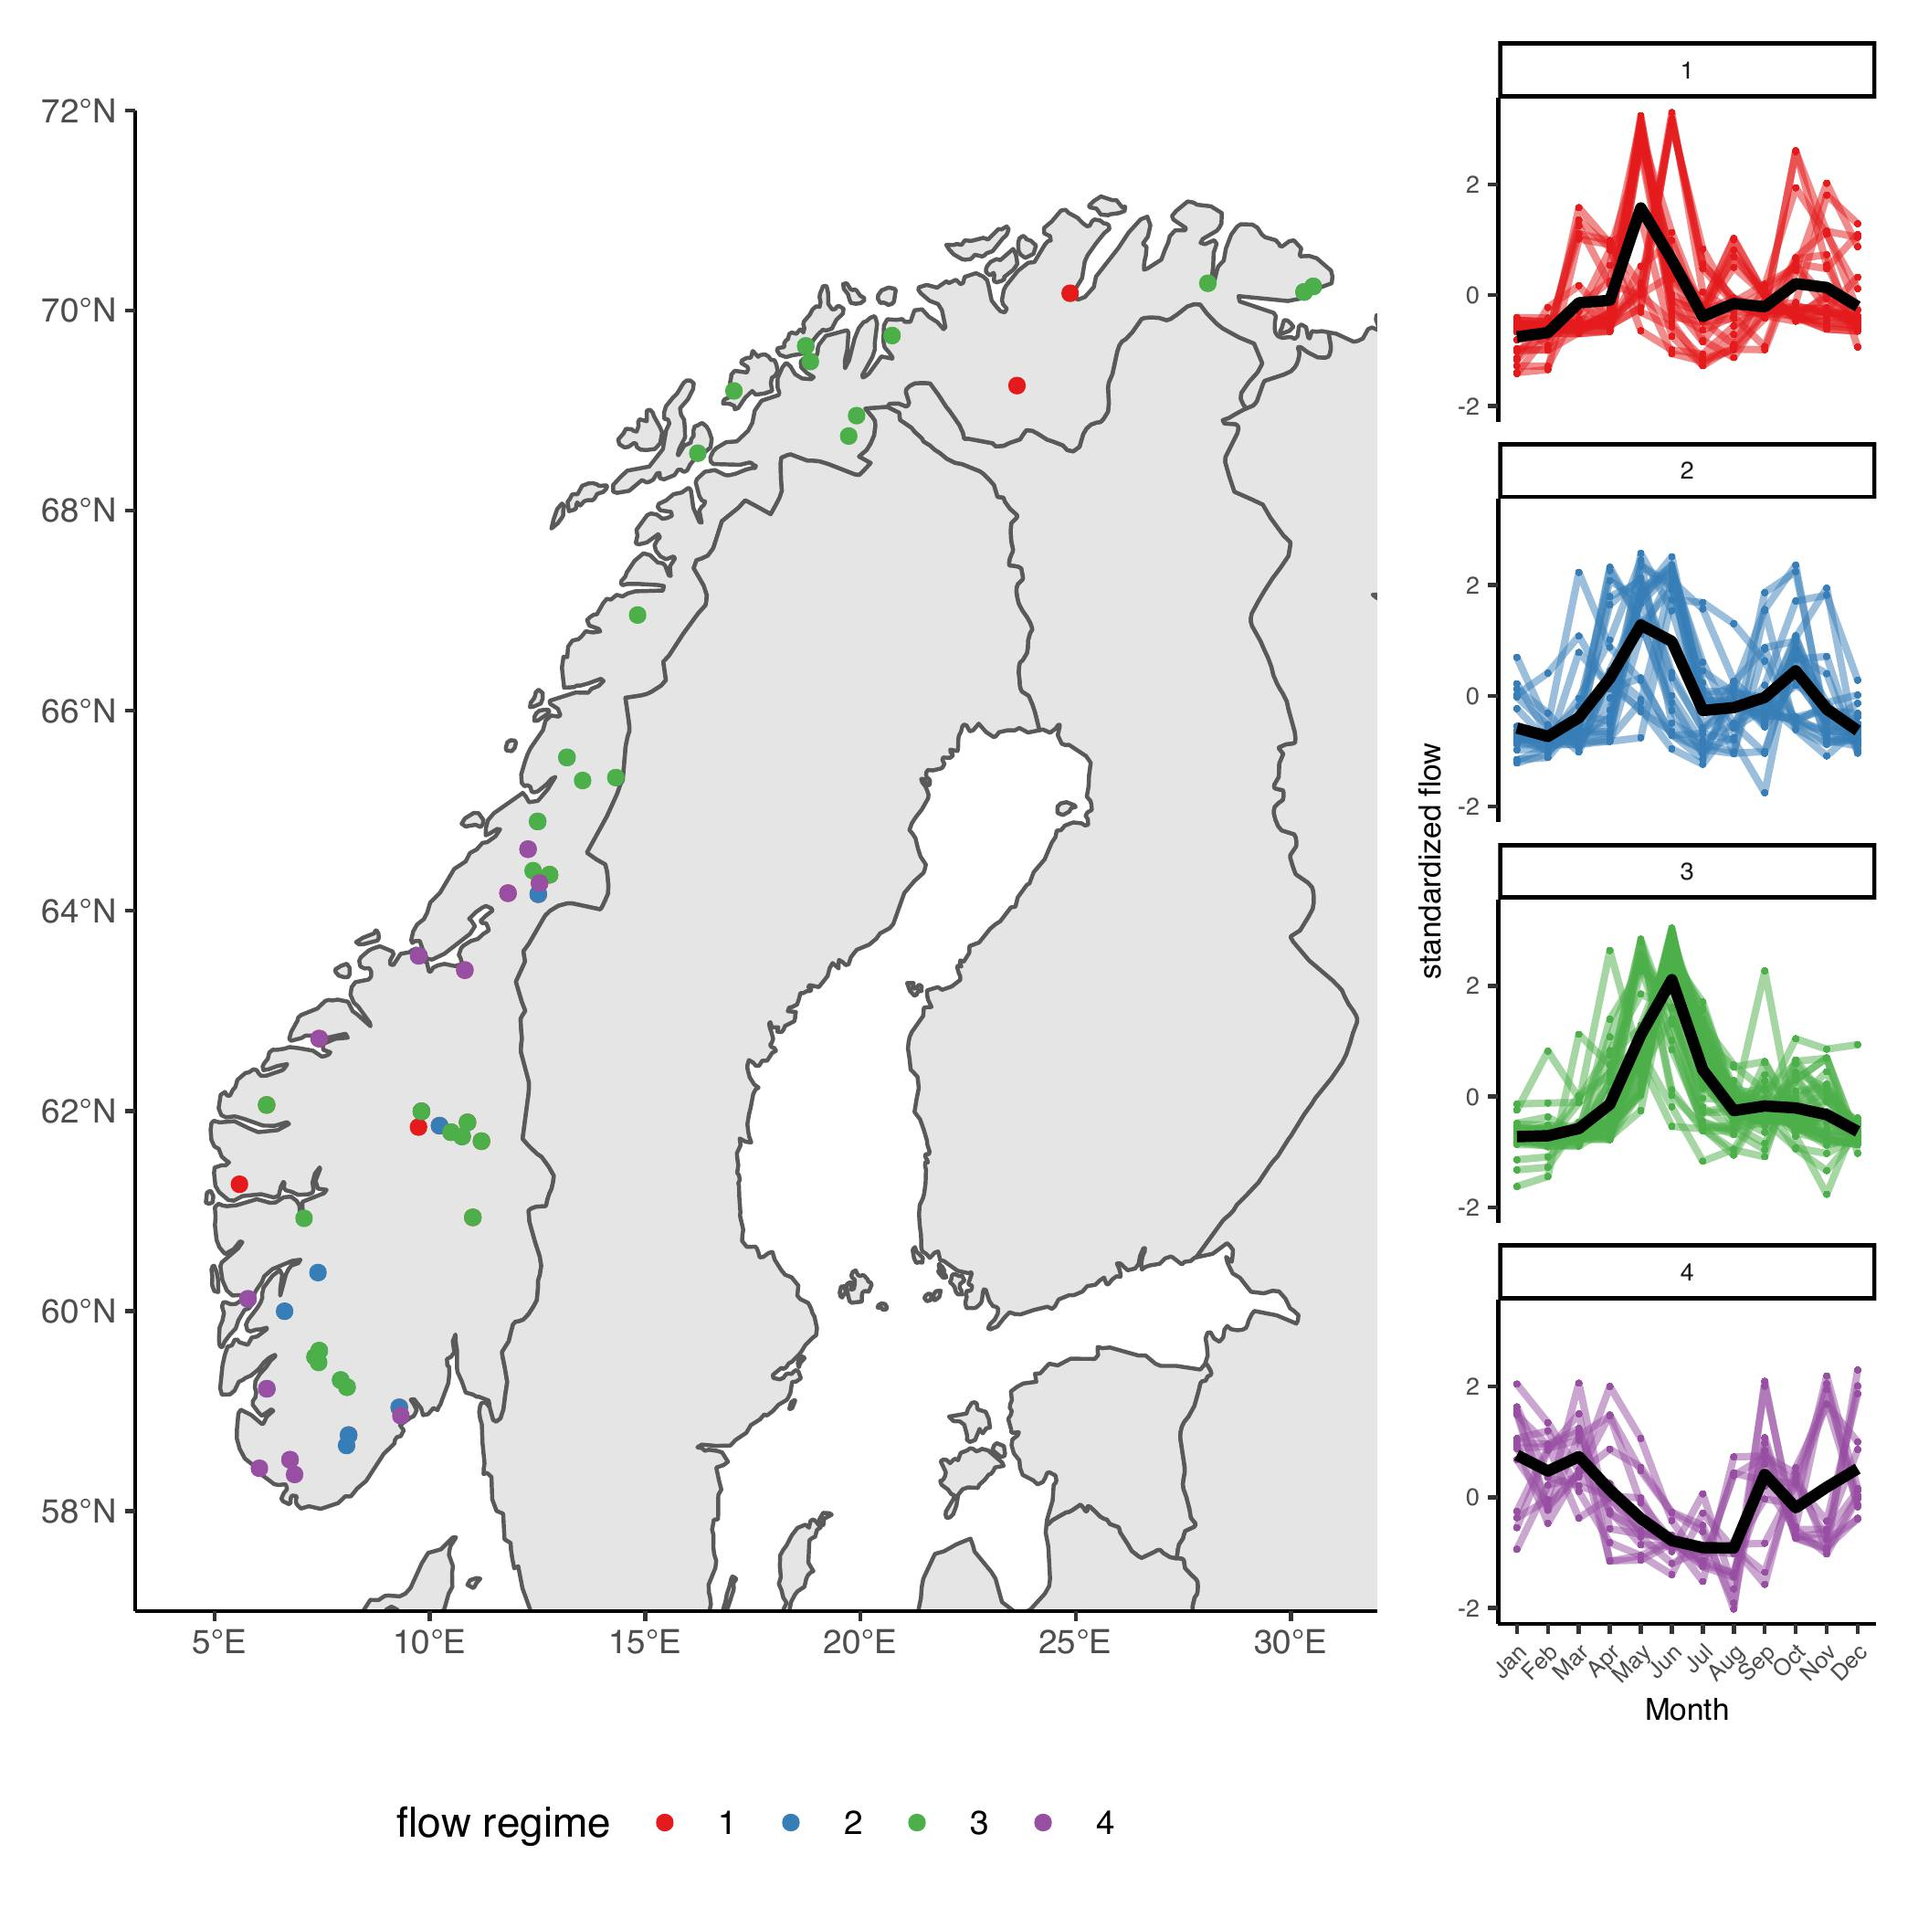
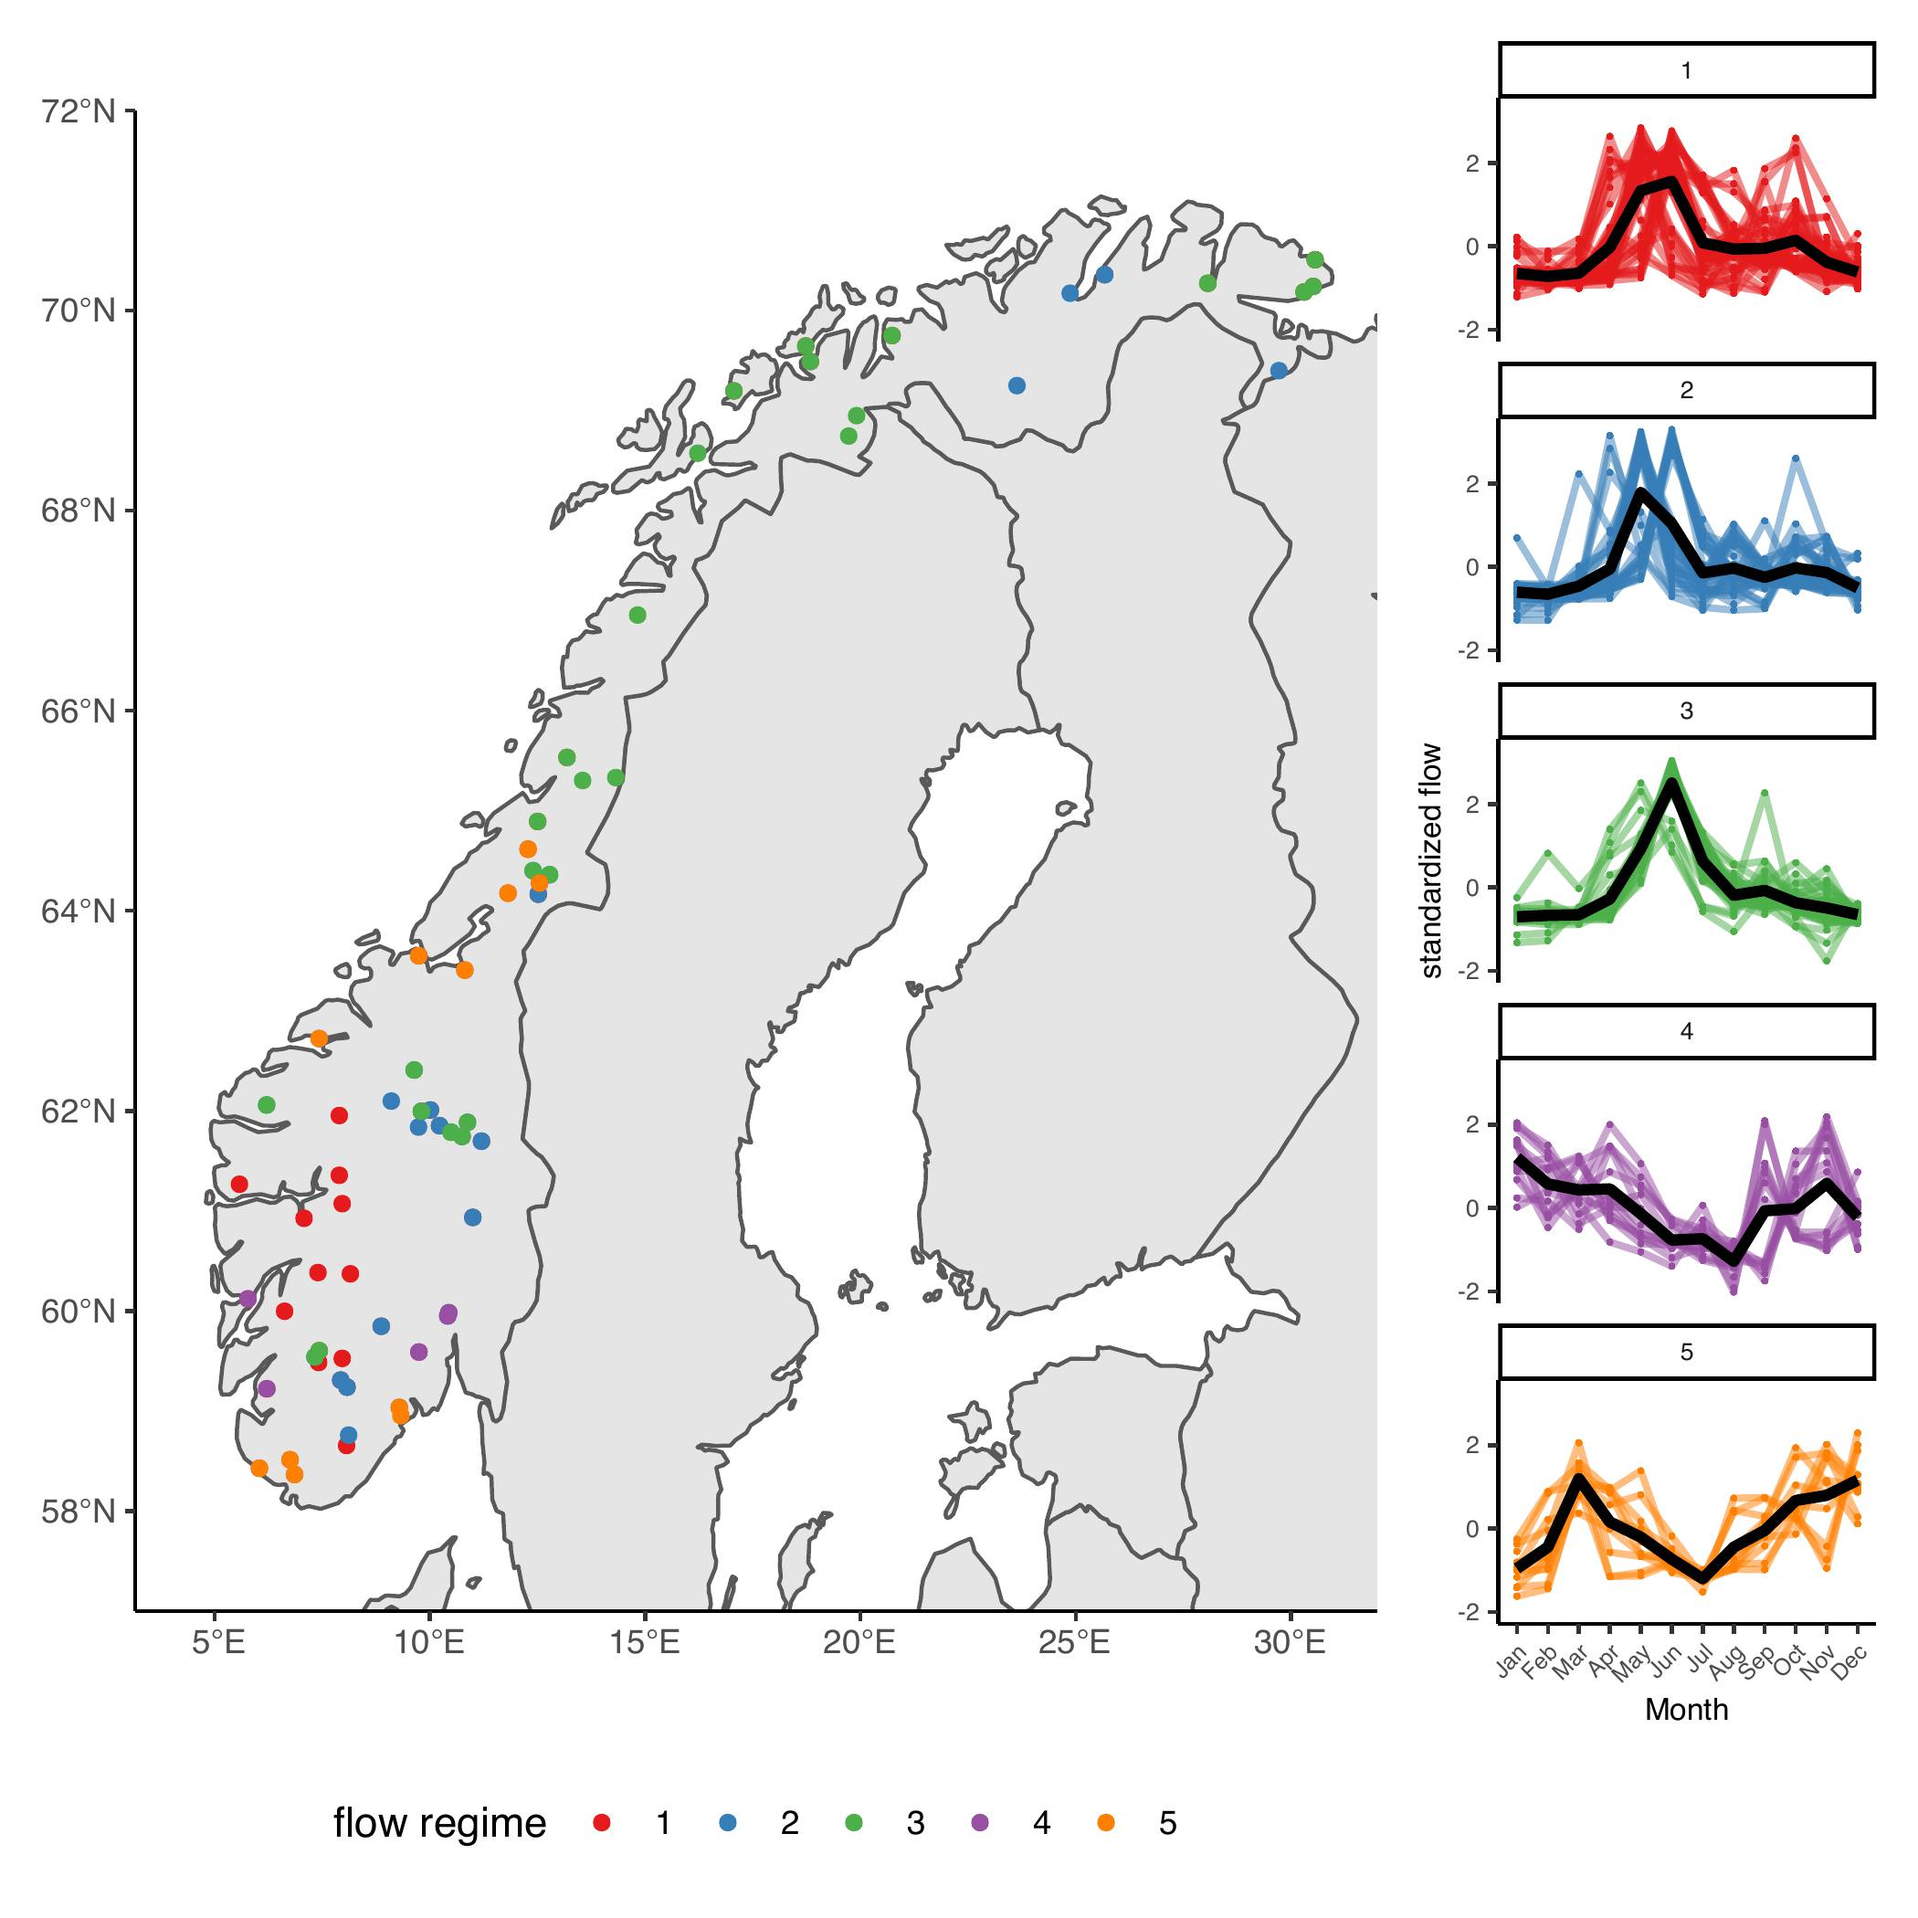
stream regimes

diff --git a/docs/book_fluxes.html b/docs/book_fluxes.html
@@ -109,7 +109,14 @@ ul.task-list{list-style: none;}
 </nav>
 <!-- margin-sidebar -->
     <div id="quarto-margin-sidebar" class="sidebar margin-sidebar">
-        
+        <nav id="TOC" role="doc-toc">
+    <h2 id="toc-title">Table of contents</h2>
+   
+  <ul>
+  <li><a href="#stream-flow" id="toc-stream-flow" class="nav-link active" data-scroll-target="#stream-flow">Stream Flow</a></li>
+  <li><a href="#fluxes" id="toc-fluxes" class="nav-link" data-scroll-target="#fluxes">Fluxes</a></li>
+  </ul>
+</nav>
     </div>
 <!-- main -->
 <main class="content" id="quarto-document-content">
@@ -130,17 +137,52 @@ ul.task-list{list-style: none;}
 
 </header>
 
+<section id="stream-flow" class="level2">
+<h2 class="anchored" data-anchor-id="stream-flow">Stream Flow</h2>
 <div class="panel-tabset">
-<ul class="nav nav-tabs" role="tablist"><li class="nav-item" role="presentation"><a class="nav-link active" id="tabset-1-1-tab" data-bs-toggle="tab" data-bs-target="#tabset-1-1" role="tab" aria-controls="tabset-1-1" aria-selected="true">2018/2020</a></li><li class="nav-item" role="presentation"><a class="nav-link" id="tabset-1-2-tab" data-bs-toggle="tab" data-bs-target="#tabset-1-2" role="tab" aria-controls="tabset-1-2" aria-selected="false">2019/2021</a></li></ul>
+<ul class="nav nav-tabs" role="tablist"><li class="nav-item" role="presentation"><a class="nav-link active" id="tabset-1-1-tab" data-bs-toggle="tab" data-bs-target="#tabset-1-1" role="tab" aria-controls="tabset-1-1" aria-selected="true">Flow Regimes</a></li><li class="nav-item" role="presentation"><a class="nav-link" id="tabset-1-2-tab" data-bs-toggle="tab" data-bs-target="#tabset-1-2" role="tab" aria-controls="tabset-1-2" aria-selected="false">2018/2020</a></li><li class="nav-item" role="presentation"><a class="nav-link" id="tabset-1-3-tab" data-bs-toggle="tab" data-bs-target="#tabset-1-3" role="tab" aria-controls="tabset-1-3" aria-selected="false">2019/2021</a></li><li class="nav-item" role="presentation"><a class="nav-link" id="tabset-1-4-tab" data-bs-toggle="tab" data-bs-target="#tabset-1-4" role="tab" aria-controls="tabset-1-4" aria-selected="false">2018/2019/2020/2021</a></li></ul>
 <div class="tab-content">
 <div id="tabset-1-1" class="tab-pane active" role="tabpanel" aria-labelledby="tabset-1-1-tab">
+<div class="quarto-figure quarto-figure-center">
+<figure class="figure">
+<p><img src="Figures/map_clusters2.jpeg" class="img-fluid figure-img"></p>
+<p></p><figcaption aria-hidden="true" class="figure-caption">Figure. Seasonal flow regimes grouped into 5 clusters using k-means clustering. These correspond to mountain regime (1/2?), inland regime (3), Atlantic regime (4) and Baltic regime (5).</figcaption><p></p>
+</figure>
+</div>
+</div>
+<div id="tabset-1-2" class="tab-pane" role="tabpanel" aria-labelledby="tabset-1-2-tab">
+<p><img src="Figures/Group1_Flow.jpeg" class="img-fluid"></p>
+</div>
+<div id="tabset-1-3" class="tab-pane" role="tabpanel" aria-labelledby="tabset-1-3-tab">
+<div class="quarto-figure quarto-figure-center">
+<figure class="figure">
+<p><img src="Figures/Group2_Flow.jpeg" class="img-fluid figure-img"></p>
+</figure>
+</div>
+</div>
+<div id="tabset-1-4" class="tab-pane" role="tabpanel" aria-labelledby="tabset-1-4-tab">
+<div class="quarto-figure quarto-figure-center">
+<figure class="figure">
+<p><img src="Figures/Group3_Flow.jpeg" class="img-fluid figure-img"></p>
+</figure>
+</div>
+</div>
+</div>
+</div>
+</section>
+<section id="fluxes" class="level2">
+<h2 class="anchored" data-anchor-id="fluxes">Fluxes</h2>
+<div class="panel-tabset">
+<ul class="nav nav-tabs" role="tablist"><li class="nav-item" role="presentation"><a class="nav-link active" id="tabset-2-1-tab" data-bs-toggle="tab" data-bs-target="#tabset-2-1" role="tab" aria-controls="tabset-2-1" aria-selected="true">2018/2020</a></li><li class="nav-item" role="presentation"><a class="nav-link" id="tabset-2-2-tab" data-bs-toggle="tab" data-bs-target="#tabset-2-2" role="tab" aria-controls="tabset-2-2" aria-selected="false">2019/2021</a></li></ul>
+<div class="tab-content">
+<div id="tabset-2-1" class="tab-pane active" role="tabpanel" aria-labelledby="tabset-2-1-tab">
 <div class="quarto-figure quarto-figure-center">
 <figure class="figure">
 <p><img src="Figures/Annual_Flux_18_20.jpeg" class="img-fluid figure-img"></p>
 </figure>
 </div>
 </div>
-<div id="tabset-1-2" class="tab-pane" role="tabpanel" aria-labelledby="tabset-1-2-tab">
+<div id="tabset-2-2" class="tab-pane" role="tabpanel" aria-labelledby="tabset-2-2-tab">
 <div class="quarto-figure quarto-figure-center">
 <figure class="figure">
 <p><img src="Figures/Annual_Flux_19_21.jpeg" class="img-fluid figure-img"></p>
@@ -150,18 +192,16 @@ ul.task-list{list-style: none;}
 </div>
 </div>
 <div class="panel-tabset">
-<ul class="nav nav-tabs" role="tablist"><li class="nav-item" role="presentation"><a class="nav-link active" id="tabset-2-1-tab" data-bs-toggle="tab" data-bs-target="#tabset-2-1" role="tab" aria-controls="tabset-2-1" aria-selected="true">More Info</a></li></ul>
+<ul class="nav nav-tabs" role="tablist"><li class="nav-item" role="presentation"><a class="nav-link active" id="tabset-3-1-tab" data-bs-toggle="tab" data-bs-target="#tabset-3-1" role="tab" aria-controls="tabset-3-1" aria-selected="true">More Info</a></li></ul>
 <div class="tab-content">
-<div id="tabset-2-1" class="tab-pane active" role="tabpanel" aria-labelledby="tabset-2-1-tab">
-<section id="doc" class="level3">
-<h3 class="anchored" data-anchor-id="doc">DOC</h3>
-<p><img src="Figures/daily_flux_v_Q_DOC.jpeg" class="img-fluid" data-fig-align="center"> <img src="Figures/standard_flow.jpeg" class="img-fluid" data-fig-align="center"></p>
+<div id="tabset-3-1" class="tab-pane active" role="tabpanel" aria-labelledby="tabset-3-1-tab">
+
+</div>
+</div>
+</div>
+
+
 </section>
-</div>
-</div>
-</div>
-
-
 
 </main> <!-- /main -->
 <script id="quarto-html-after-body" type="application/javascript">

diff --git a/docs/book_climate.html b/docs/book_climate.html
@@ -153,7 +153,7 @@ ul.task-list{list-style: none;}
 <div class="quarto-figure quarto-figure-center">
 <figure class="figure">
 <p><img src="Figures/map_clusters2.jpeg" class="img-fluid figure-img" style="width:75.0%"></p>
-<p></p><figcaption aria-hidden="true" class="figure-caption">seasonal flow regimes grouped into 4 clusters</figcaption><p></p>
+<p></p><figcaption aria-hidden="true" class="figure-caption">Figure. Seasonal flow regimes grouped into 5 clusters using k-means clustering. These correspond to mountain regime (1/2?), inland regime (3), Atlantic regime (4) and Baltic regime (5).</figcaption><p></p>
 </figure>
 </div>
 </div>
